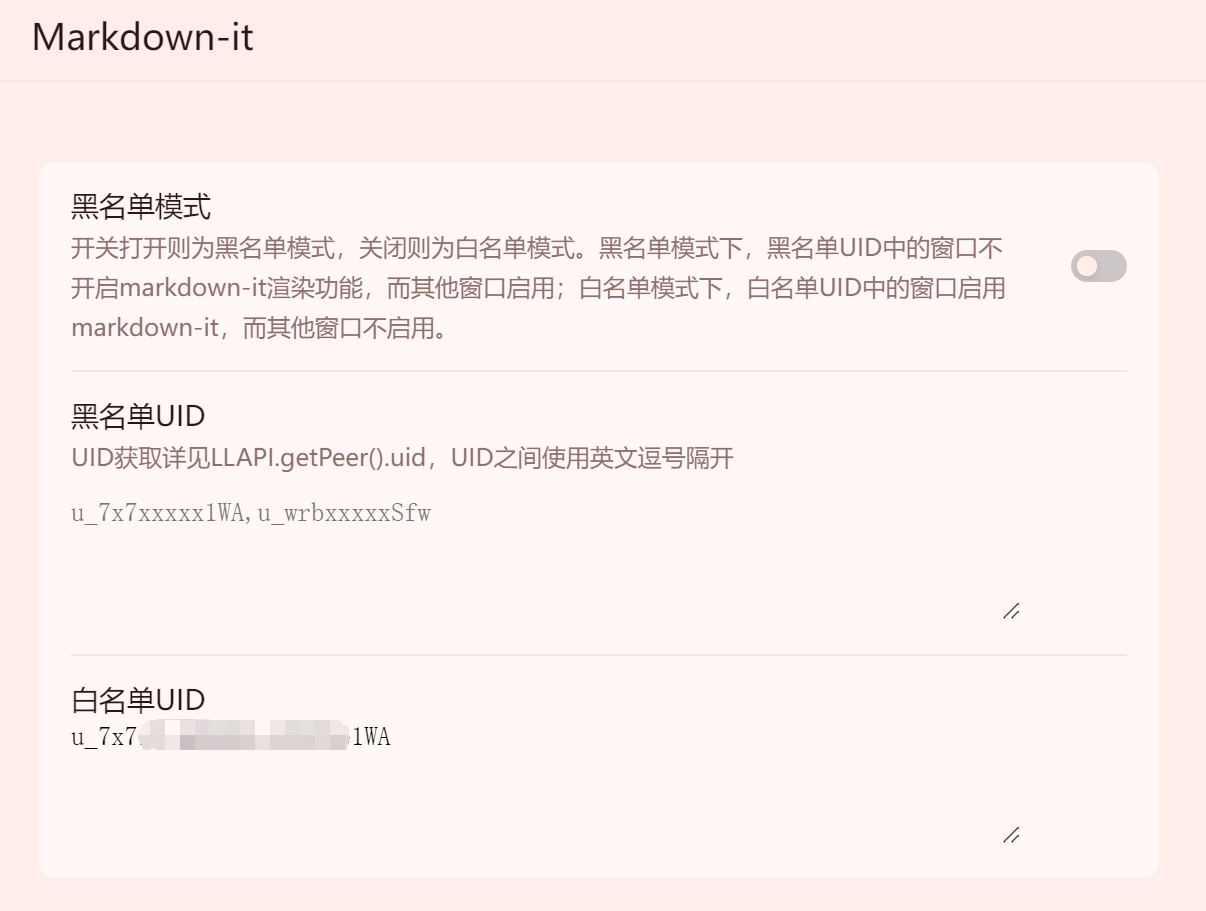
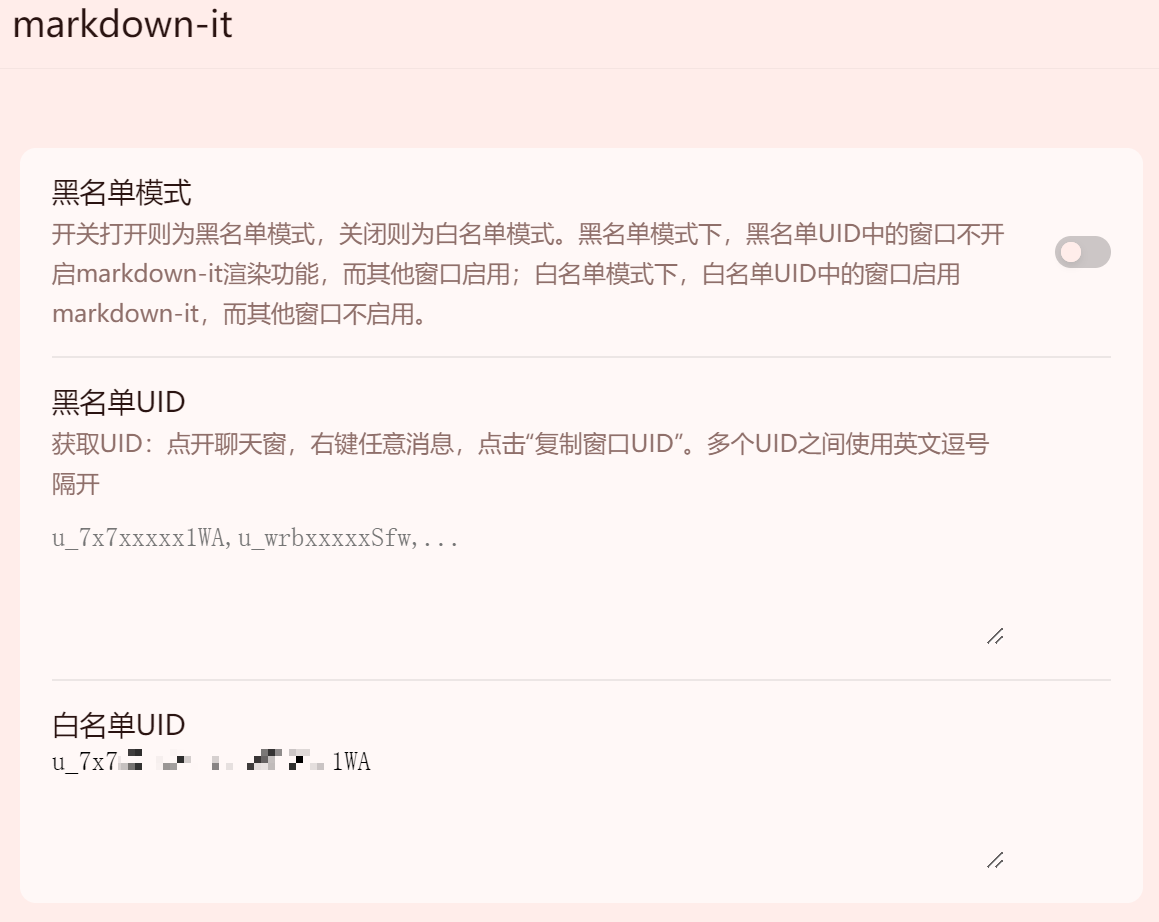
Add `copy UID` to the menu

diff --git a/src/renderer.js b/src/renderer.js
@@ -1,5 +1,9 @@
 // 运行在 Electron 渲染进程 下的页面脚本
 
+function log(...args) {
+    console.log("\x1b[32m[Markdown-IT]\x1b[0m", ...args);
+}
+
 // 使用 markdown-it 渲染每个span标记的内容
 function render() {
     const elements = document.querySelectorAll(
@@ -41,6 +45,32 @@ function loadCSSFromURL(url) {
     document.head.appendChild(link);
 }
 
+function observeElement(selector, callback, callbackEnable = true, interval = 100, clearIntervalEnable = true) {
+    try {
+        const timer = setInterval(function () {
+            const element = document.querySelector(selector);
+            if (element) {
+                if (callbackEnable) {
+                    callback();
+                }
+                if (clearIntervalEnable) {
+                    clearInterval(timer);
+                }
+            }
+        }, interval);
+    } catch (__) {
+    }
+}
+
+function copyToClipboard(content) {
+    navigator.clipboard.writeText(content).then(function () {
+        log(`Succeed to copy ${content} to clipboard.`);
+    }, function () {
+        log(`Failed to copy ${content} to clipboard.`);
+    });
+}
+
+let appended = true;
 onLoad();
 
 function onLoad() {
@@ -50,12 +80,11 @@ function onLoad() {
     loadCSSFromURL(`local:///${pluginPath}/src/style/hljs-github-dark.css`);
     loadCSSFromURL(`local:///${pluginPath}/src/style/katex.css`);
 
-    const observer = new MutationObserver(async (mutationsList) => {
+    new MutationObserver(async (mutationsList) => {
         var config = await window.markdown_it.getConfig();
 
         const peer = await LLAPI.getPeer();
-        console.log("\x1b[32m[Markdown-IT] peer:\x1b[0m", JSON.stringify(peer, null, 2));
-        //TODO: 右键菜单添加getPeer.uid
+        // log("peer:", JSON.stringify(peer, null, 2));
         
         if (((!config.enableBlack) && (config.whiteUID.includes(peer?.uid))) || (config.enableBlack && (!config.blackUID.includes(peer?.uid)))) {
             for (let mutation of mutationsList) {
@@ -64,17 +93,60 @@ function onLoad() {
                 }
             }
         }
-    });
+    }).observe(document.body, { childList: true, subtree: true });
 
-    const targetNode = document.body;
-    const config = { childList: true, subtree: true };
-    observer.observe(targetNode, config);
+
+    // 右键菜单添加getPeer.uid
+    observeElement('#ml-root .ml-list', function () {
+        document.querySelector('#ml-root .ml-list').addEventListener('mouseup', e => {
+            if (e.button !== 2) {
+                appended = true;
+            } else {
+                appended = false;
+            }
+        });
+
+        new MutationObserver(() => {
+            const qContextMenu = document.querySelector(".q-context-menu");
+            if (appended) {
+                return;
+            }
+            if (qContextMenu) {
+                const tempEl = document.createElement("div");
+                tempEl.innerHTML = document.querySelector(`.q-context-menu :not([disabled="true"])`).outerHTML.replace(/<!---->/g, "");
+                const item = tempEl.firstChild;
+                item.id = "peer-uid";
+                if (item.querySelector(".q-icon")) {
+                    item.querySelector(".q-icon").innerHTML = `<svg fill="#000000" width="800px" height="800px" viewBox="0 0 24 24" role="img" xmlns="http://www.w3.org/2000/svg"><title>Markdown icon</title><path d="M22.269 19.385H1.731a1.73 1.73 0 0 1-1.73-1.73V6.345a1.73 1.73 0 0 1 1.73-1.73h20.538a1.73 1.73 0 0 1 1.73 1.73v11.308a1.73 1.73 0 0 1-1.73 1.731zm-16.5-3.462v-4.5l2.308 2.885 2.307-2.885v4.5h2.308V8.078h-2.308l-2.307 2.885-2.308-2.885H3.461v7.847zM21.231 12h-2.308V8.077h-2.307V12h-2.308l3.461 4.039z"/></svg>`;
+                }
+                if (item.className.includes("q-context-menu-item__text")) {
+                    item.innerText = "复制窗口UID";
+                } else {
+                    item.querySelector(".q-context-menu-item__text").innerText = "复制窗口UID";
+                }
+                item.addEventListener("click", async () => {
+                    qContextMenu.remove();
+                    const peer = await LLAPI.getPeer();
+                    copyToClipboard(peer.uid);
+                });
+                qContextMenu.appendChild(item);
+                appended = true;
+            }
+        }).observe(document.body, { childList: true });
+
+    });
 }
 
 // 打开设置界面时触发
 export async function onSettingWindowCreated(view) {
     var config = await window.markdown_it.getConfig();
-    
+
+    document.querySelectorAll(".nav-item.liteloader").forEach((node) => {
+        if (node.textContent === "markdown-it") {
+            node.querySelector(".q-icon").innerHTML = `<svg fill="#000000" width="800px" height="800px" viewBox="0 0 24 24" role="img" xmlns="http://www.w3.org/2000/svg"><title>Markdown icon</title><path d="M22.269 19.385H1.731a1.73 1.73 0 0 1-1.73-1.73V6.345a1.73 1.73 0 0 1 1.73-1.73h20.538a1.73 1.73 0 0 1 1.73 1.73v11.308a1.73 1.73 0 0 1-1.73 1.731zm-16.5-3.462v-4.5l2.308 2.885 2.307-2.885v4.5h2.308V8.078h-2.308l-2.307 2.885-2.308-2.885H3.461v7.847zM21.231 12h-2.308V8.077h-2.307V12h-2.308l3.461 4.039z"/></svg>`;
+        }
+    });
+
     const navBarItem = `
     <body>
     <div class="config_view">
@@ -93,7 +165,7 @@ export async function onSettingWindowCreated(view) {
             <div class="vertical-list-item">
                 <div style="width:90%;">
                 <h2>黑名单UID</h2>
-                <span class="secondary-text">UID获取详见LLAPI.getPeer().uid，UID之间使用英文逗号隔开</span>
+                <span class="secondary-text">获取UID：点开聊天窗，右键任意消息，点击“复制窗口UID”。多个UID之间使用英文逗号隔开</span>
                 <textarea id="blackUID" style="width: 100%; resize: vertical;" placeholder="u_7x7xxxxx1WA,u_wrbxxxxxSfw,..." rows="4" class="margin-top-large"></textarea>
                 </div>
             </div>

diff --git a/README.md b/README.md
@@ -2,7 +2,10 @@
 
 ## Introduction
 
-这是一个 [LiteLoaderQQNT](https://github.com/mo-jinran/LiteLoaderQQNT) 插件，使用 [Markdown-it](https://github.com/markdown-it/markdown-it) 为 QQnt 增加 Markdown 和 $\LaTeX$ 渲染功能！
+这是一个 [LiteLoaderQQNT](https://github.com/mo-jinran/LiteLoaderQQNT) 插件，使用 [Markdown-it](https://github.com/markdown-it/markdown-it) 为 QQnt 增加 Markdown 和 $\LaTeX$ 渲染功能！
+
+> [!NOTE]
+> 此插件最低支持 LiteLoaderQQNT 1.0.0，并且依赖[LLAPI](https://github.com/Night-stars-1/LiteLoaderQQNT-Plugin-LLAPI/tree/main)插件。
 
 ## Features
 
@@ -12,14 +15,14 @@
 - 黑/白名单设置功能，针对窗口设置是否需要启用渲染功能；
 
 ## Demo 
- 
+
  1. Markdown基础语法/公式渲染：
 
-<img src="https://raw.githubusercontent.com/CJReinforce/LiteLoaderQQNT-Markdown/v4/imgs/1.png" width="71%"> <img src="https://raw.githubusercontent.com/CJReinforce/LiteLoaderQQNT-Markdown/v4/imgs/2.png" width="21%">
+<img src="https://raw.githubusercontent.com/CJReinforce/LiteLoaderQQNT-Markdown/v4/imgs/1.png" width="71%" style="zoom: 50%;"> <img src="https://raw.githubusercontent.com/CJReinforce/LiteLoaderQQNT-Markdown/v4/imgs/2.png" width="21%">
 
 2. 黑/白名单设置
 
-![Black/WhiteList](https://raw.githubusercontent.com/CJReinforce/LiteLoaderQQNT-Markdown/v4/imgs/3.png)
+<img src="https://raw.githubusercontent.com/CJReinforce/LiteLoaderQQNT-Markdown/v4/imgs/4.png" alt="Black/WhiteList" style="zoom:45%;" /><img src="https://raw.githubusercontent.com/CJReinforce/LiteLoaderQQNT-Markdown/v4/imgs/3.png" alt="Black/WhiteList" style="zoom:45%;" />
 
 ## Tips
 
